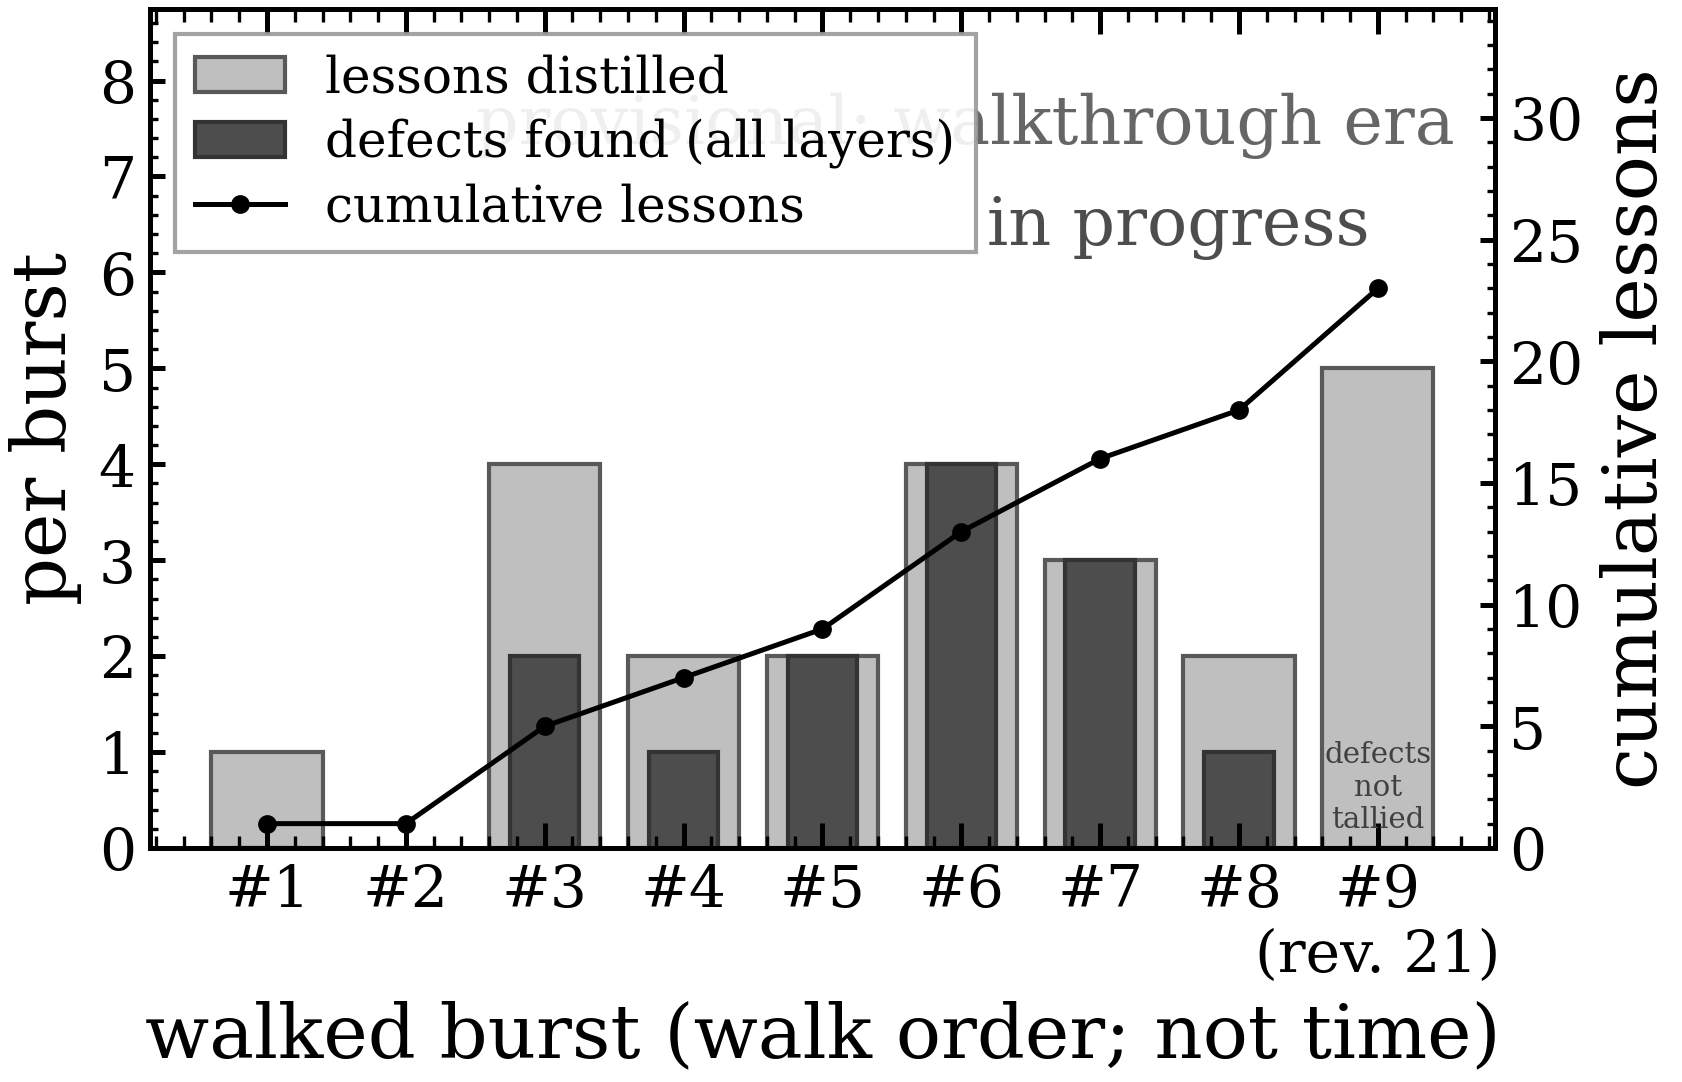
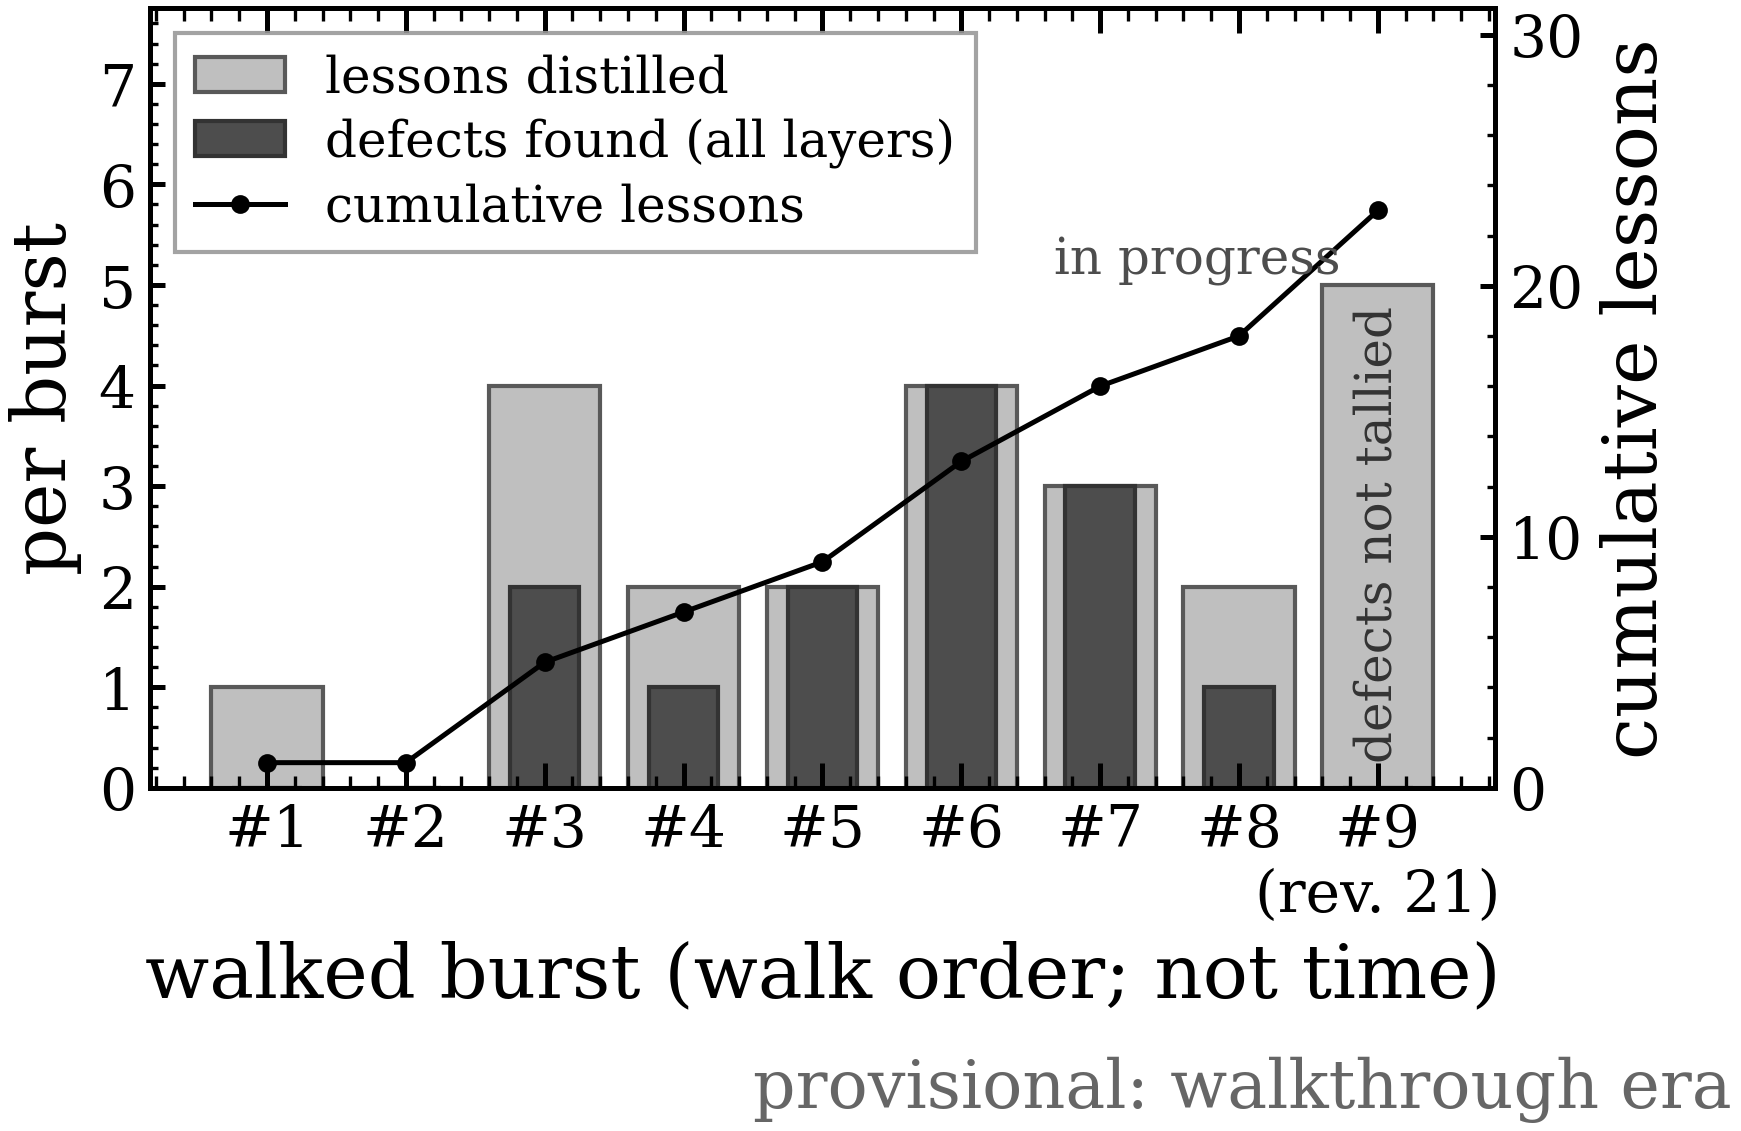
F7 r3: vision defects fixed (provisional note out of the legend's panel, not-tallied note rotated inside its bar and sized from PUB, annotations separated, dpi from PUB); sub-lettered ids counted (44 on disk, cumulative 23 unchanged); sidecar gains walk_order/review_index; generator docstring correc
Claude-Session: https://claude.ai/code/session_014ZKU13JNR6E9CyYseiK5df

Changed region(s): [[0.0, 0.0, 1.0, 1.0]]

diff --git a/dev/build_learning_curve.py b/dev/build_learning_curve.py
@@ -9,8 +9,8 @@ Sources (never typed numbers):
     lessons per burst = the number of lesson ids named in `lessons_born`; defects = `bugs_found`.
   * the five step skills that carry numbered lessons (dev/ai_guides/{SpectralFitting,Temporal,DataInventory,
     GCNIntelligence,LiteratureHarvest}.md): heading-form lessons `### <PREFIX><n> — ... *(date, burst)*`; the
-    walkthrough burst in progress (bn110920546, ledger #21, walked from 2026-08-30) is credited with the lessons
-    whose heading names it or whose date falls on or after 2026-08-30.
+    walkthrough burst in progress (bn110920546, ninth walked; review-index 21) is credited ONLY with the lessons whose
+    heading names it and that are not marked PROPOSED; its defects are not tallied while the walkthrough is open.
 The figure carries the provisional flag by construction (the caption says so; the sidecar says which rows are
 ledger and which are parsed).
 """
@@ -30,6 +30,16 @@ SKILLS = {'SpectralFitting': 'L', 'Temporal': 'TM', 'DataInventory': 'D', 'GCNIn
 WALK21 = ('bn110920546', '2026-08-30')
 
 
+def review_index():
+    """trigger -> row number in notes/REVIEW_INDEX_106.md (the campaign catalogue order)."""
+    out = {}
+    for l in open(os.path.join(ROOT, 'notes', 'REVIEW_INDEX_106.md'), encoding='utf-8'):
+        m = re.match(r'^\|\s*(\d+)\s*\|\s*`(bn\d{9})`', l)
+        if m:
+            out[m.group(2)] = int(m.group(1))
+    return out
+
+
 def ledger_rows(known_ids):
     """Bursts #1-#8 from the ledger: lesson ids named in `lessons_born`, WHITELISTED against the heading-form
     lessons on disk (so 'T90' is never a lesson) and DEDUPLICATED across rows (an id counts at its first
@@ -46,7 +56,8 @@ def ledger_rows(known_ids):
         ids = [i for i in ids if i in known_ids]
         new_ids = [i for i in ids if i not in seen]
         seen.update(new_ids)
-        rows.append({'order': int(r['order']), 'burst': r['burst'], 'walked': r['walked'], 'lessons': len(new_ids),
+        rows.append({'order': int(r['order']), 'walk_order': int(r['order']), 'review_index': None,
+                     'burst': r['burst'], 'walked': r['walked'], 'lessons': len(new_ids),
                      'lesson_ids': new_ids, 'defects': int(r['bugs_found'] or 0),
                      'source': 'notes/campaign_ledger.csv (ids whitelisted against the skill-file headings; deduplicated)',
                      'lessons_born': r['lessons_born']})
@@ -57,7 +68,7 @@ def parsed_lessons():
     out = []
     for f, pre in SKILLS.items():
         for line in open(os.path.join(ROOT, 'dev', 'ai_guides', f + '.md'), encoding='utf-8'):
-            m = re.match(r'^#{2,4}\s+' + pre + r'(\d{1,2})\b(.*)$', line)
+            m = re.match(r'^#{2,4}\s+' + pre + r'(\d{1,2}[a-z]?)\b(.*)$', line)
             if m:
                 tail = m.group(2)
                 d = re.search(r'(20\d\d-\d\d-\d\d)', tail)
@@ -79,18 +90,19 @@ def main():
     matplotlib.use('Agg')
     import matplotlib.pyplot as plt
     sys.path.insert(0, os.path.join(ROOT, 'scripts'))
-    try:
-        from plot_style import apply_pub_style
-        apply_pub_style()
-    except Exception:
-        pass
+    from plot_style import apply_pub_style, PUB   # must not fail silently (Figures.md F8)
+    apply_pub_style()
     lessons = parsed_lessons()
     known = {l['id'] for l in lessons}
     rows = ledger_rows(known)
+    rix = review_index()
+    for i, r in enumerate(rows, 1):
+        r['walk_order'] = i
+        r['review_index'] = rix.get(r['burst'])
     # #21 (ninth walked burst): lessons whose HEADING names the burst and that are not marked PROPOSED
     w21 = [l for l in lessons if l['burst'] == WALK21[0] and not l['proposed']]
     d21 = register_defects(WALK21[0])   # rows CITING the burst (as instance or birth) — not a defect tally; recorded, not drawn
-    rows.append({'order': 21, 'burst': WALK21[0], 'walked': WALK21[1] + '..', 'lessons': len(w21),
+    rows.append({'order': 21, 'walk_order': 9, 'review_index': 21, 'burst': WALK21[0], 'walked': WALK21[1] + '..', 'lessons': len(w21),
                  'lesson_ids': [l['id'] for l in w21], 'defects': None, 'register_rows_citing': d21,
                  'source': 'dev/ai_guides/*.md headings naming the burst, PROPOSED excluded; defects = register rows citing the burst',
                  'lessons_born': ';'.join(l['id'] for l in w21)})
@@ -106,7 +118,8 @@ def main():
     ax.bar(xs, [r['defects'] or 0 for r in rows], color='0.3', edgecolor='0.2', width=0.5, label='defects found (all layers)')
     for x, r in zip(xs, rows):
         if r['defects'] is None:
-            ax.text(x, 0.15, 'defects\nnot\ntallied', ha='center', va='bottom', fontsize=7, color='0.25')
+            ax.text(x, 0.25, 'defects not tallied', rotation=90, ha='center', va='bottom', color='0.2',
+                    fontsize=PUB['tick_size'] - 2)
     ax2 = ax.twinx()
     ax2.plot(xs, cum, color='k', marker='o', ms=3.5, lw=1.2, label='cumulative lessons')
     ax.set_xticks(xs)
@@ -114,18 +127,19 @@ def main():
     ax.set_xlabel('walked burst (walk order; not time)')
     ax.set_ylabel('per burst')
     ax2.set_ylabel('cumulative lessons')
-    ax.set_ylim(0, max(r['lessons'] for r in rows) * 1.75)
-    ax2.set_ylim(0, max(cum) * 1.5)
+    ax.set_ylim(0, max(r['lessons'] for r in rows) * 1.55)
+    ax2.set_ylim(0, max(cum) * 1.35)
     h1, l1 = ax.get_legend_handles_labels()
     h2, l2 = ax2.get_legend_handles_labels()
     from matplotlib.ticker import MaxNLocator
     ax.yaxis.set_major_locator(MaxNLocator(integer=True))
     ax.legend(h1 + h2, l1 + l2, loc='upper left', framealpha=0.9, edgecolor='0.6')
-    ax2.annotate('in progress', (xs[-1], cum[-1]), xytext=(-2, 7), textcoords='offset points', ha='right', va='bottom', color='0.3')
-    ax.text(0.97, 0.90, 'provisional: walkthrough era', transform=ax.transAxes, ha='right', va='top', color='0.4')
-    fig.tight_layout()
+    ax2.annotate('in progress', (xs[-1], cum[-1]), xytext=(-9, -6), textcoords='offset points', ha='right', va='top',
+                 color='0.3', fontsize=PUB['tick_size'] - 2)
+    fig.text(0.995, 0.012, 'provisional: walkthrough era', ha='right', va='bottom', color='0.4')
+    fig.tight_layout(rect=[0, 0.05, 1, 1])
     fig.savefig(OUT + '.pdf')
-    fig.savefig(OUT + '.png', dpi=300)
+    fig.savefig(OUT + '.png', dpi=PUB['dpi'])
     head = subprocess.run(['git', 'rev-parse', '--short=12', 'HEAD'], capture_output=True, text=True, cwd=ROOT).stdout.strip()
     side = {'figure': 'F7 campaign learning curve', 'utc': dt.datetime.now(dt.timezone.utc).strftime('%Y-%m-%dT%H:%M:%SZ'),
             'git_head': head, 'rows': rows, 'cumulative': cum, 'total_lessons': cum[-1],

diff --git a/paper_agentic/v3/sec5_steering.tex b/paper_agentic/v3/sec5_steering.tex
@@ -67,13 +67,14 @@ clean pass has been recorded.}
 
 This training style has properties that gradient methods cannot offer at
 our scale, and one property they share. It is data-efficient: four of the
-five step skills hold forty-three heading-form numbered lessons\prov{} (the
+five step skills hold forty-four heading-form numbered lessons\prov{} (the
 literature-harvest skill carries eleven numbered traps in list form);
-twenty-three of the forty-three are credited to the nine bursts walked so
+twenty-three of the forty-four are credited to the nine bursts walked so
 far, by the campaign ledger for the first eight and by the lesson headings
 for the ninth, and the rest to the reconciliation pilot that preceded the
-walkthroughs, to campaign batches, to lessons the ledger rows omit, and to
-rulings by the human. It is auditable: the learned policy is plain
+walkthroughs, to campaign batches, to lessons the ledger rows omit, to
+rulings by the human, and to one lesson still proposed and pending the
+human's ruling. It is auditable: the learned policy is plain
 text, and every rule cites the burst that paid for it. It transfers across
 model families: the same library is executed by different vendors' agents,
 which is the basis of the multi-system comparison of \S\ref{sec:design}.

diff --git a/tests/test_figure_style.py b/tests/test_figure_style.py
@@ -32,7 +32,9 @@ BASE = os.path.dirname(os.path.dirname(os.path.abspath(__file__)))
 SCRIPTS = os.path.join(BASE, "scripts")
 
 # figure-producing scripts governed by the style
-FIGURE_SCRIPTS = ["44_step_figures.py", "41_nuFnu_panels.py"]
+FIGURE_SCRIPTS = ["44_step_figures.py", "41_nuFnu_panels.py",
+    "../dev/build_learning_curve.py",
+]
 
 
 def _src(name):

diff --git a/paper_agentic/figures/GATE_LEDGER.md b/paper_agentic/figures/GATE_LEDGER.md
@@ -1,6 +1,6 @@
 # Paper v3 diagram gate ledger — TRACKED COPY
 
-Copied from `results/campaign/agentfigs/VISION_QC.md` (gitignored under results/*) at 2026-09-03T21:41:03Z, so the approval record of the manuscript's diagrams is commit-recoverable (Codex supervisor review D4, 2026-09-02). The results/ file remains the ledger the no-ship hook reads; this copy is refreshed by the building session whenever a diagram row changes.
+Copied from `results/campaign/agentfigs/VISION_QC.md` (gitignored under results/*) at 2026-09-03T21:58:02Z, so the approval record of the manuscript's diagrams is commit-recoverable (Codex supervisor review D4, 2026-09-02). The results/ file remains the ledger the no-ship hook reads; this copy is refreshed by the building session whenever a diagram row changes.
 
 ## Paper v3 diagrams — gate ledger appended 2026-09-03T03:32:12Z by the building session (verdicts by fresh-context figure-verifier agents; producer = building session)
 
@@ -80,6 +80,8 @@ Tie-break (F1 colour gate, 2026-09-03): a DOCUMENT the model reads (protocol, gu
 | fig | state | png sha256 | pdf/json sha256 | verdict |
 |---|---|---|---|---|
[5 lines of base64/hex data omitted]
+| F7 | r2 verdict | — | — | FAIL — numbers PASS in full (every bar, the cumulative 23, the whitelist, the dedupe, the L26→TM3 alias and the five walkthrough lessons re-derived and confirmed; the heading rule shown to bias ~17% LOW, so the last bar is a floor); three vision defects: the legend covered 51% of the provisional note and its frame ran through a glyph, an x tick speared the "tallied" label, and that label printed at 4.2 pt |
[1 lines of base64/hex data omitted]
